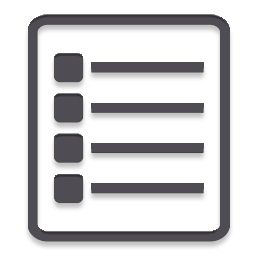
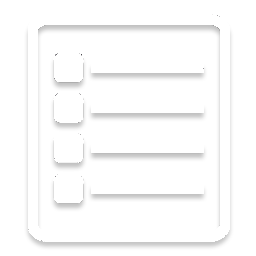
Perfil de usuario
se modifico el diseño de perfil de usuario, se agrego una copia de
respaldo de la base de datos al proyecto.

Changed region(s): [[0.1875, 0.1875, 0.8125, 0.8125], [0.0938, 0.0312, 0.9062, 0.9688]]

diff --git a/css/style_usuario.css b/css/style_usuario.css
@@ -9,7 +9,7 @@
 	height: auto;
 	min-height: 100%;
 	position: absolute;
-	background-color: #fff;
+	background-color: #F7763E;
 	float: left;
 	z-index: 1;
 }
@@ -33,7 +33,7 @@
 	padding: 3px;
 	position: fixed;
 	overflow: hidden;
-	background-color: #187BC6;
+	background-color: rgba(0,0,0,0.21);/*#187BC6*/
 	box-shadow: 0px 1px 3px 0px rgba(0,0,0,0.21);
 	float: left;
 	z-index: 3;
@@ -93,7 +93,7 @@
 	position: relative;
 	float: left;
 	background-color: transparent;
-	border-bottom:  1px solid rgba(0,0,0,0.21);
+	border-bottom:  1px solid rgba(255,255,255,0.81);
 }
 
 .nombre-opc{
@@ -205,7 +205,7 @@
 
 #_perfil{
 
-	background-color: #FF6600;
+	background-color: #F7763E;
 }
 
 #bg_home{
@@ -223,10 +223,98 @@
     background-image: url(../img/p.png);
     background-repeat: no-repeat;
     background-color: transparent;
-    left: 30px;
+    left: 150px;
+    top: 50px;
     width: 410px;
     height: 400px;
     position: relative;
     float: left;
     z-index: 1000!important;
+}
+
+#bg_cursos{
+
+    background-image: url(../img/bg_cursos.png);
+    width: 570px;
+    height: 492px;
+    background-repeat: no-repeat;
+    top: 80px;
+    position: relative;
+    float: left;
+    z-index: 1000!important;
+}
+
+#mis_grupos{
+
+  width: 40%;
+  height: 250px;
+  top: 80px;
+  position: relative;
+  float: left;
+  background-color: transparent;
+
+}
+
+#mis_grupos li{
+
+	list-style: none;
+	width: 80%;
+	left: 10%;
+	margin: 10px;
+	padding: 10px;
+	text-align: center;
+	position: relative;
+	background-color: #fff;
+	border-radius: 3px;
+	box-shadow: 0px 1px 3px 0px rgba(0,0,0,0.31);
+}
+
+.group-section{
+
+	width: 38%;
+	height: auto;
+	left: 10%;
+	top: 30px;
+	background-color: transparent;
+	position: relative;
+	padding: 20px;
+	float: left;
+}
+
+.group-section legend{
+
+	color: #fff;
+}
+
+.tbx{
+
+	width: 100%;
+	height: 25px;
+	padding: 5px;
+	border: 0px;
+	border-bottom: 1px solid rgba(0,0,0,0.21);
+	color: #8f8f8f;
+	float: left;
+}
+
+.cbx{
+
+	width: 102.3%;
+	height: 35px;
+	padding: 10px;
+	border: 0px;
+	border-bottom: 1px solid rgba(0,0,0,0.21);
+	color: #8f8f8f;
+	float: left;
+	position: relative;
+}
+
+.btn{
+
+	width: 102.3%;
+	height: 45px;
+	padding: 5px;
+	border: 0px;
+	border-bottom: 1px solid rgba(0,0,0,0.21);
+	color: #8f8f8f;
 }

diff --git a/js/scroll-usuario.js b/js/scroll-usuario.js
@@ -16,7 +16,7 @@ $(document).on('ready',function(){
     $('#perfil').on('click',function(){
         
        $('html, body').animate({
-           scrollTop: tam1
+           scrollTop: tam1+15
        },1500);
 
     });
@@ -24,7 +24,7 @@ $(document).on('ready',function(){
     $('#grupos').on('click',function(){
         
        $('html, body').animate({
-           scrollTop: tam1+tam2
+           scrollTop: tam1+tam2+30
        },1500);
 
     });
@@ -32,7 +32,7 @@ $(document).on('ready',function(){
     $('#configuracion').on('click',function(){
         
        $('html, body').animate({
-           scrollTop: tam1+tam2+tam3
+           scrollTop: tam1+tam2+tam3+45
        },1500);
 
     });

diff --git a/usuario.php b/usuario.php
@@ -61,6 +61,7 @@
                         <div class="info-perfil"><?php echo ''.$_SESSION['nombreUsuario'].''.$_SESSION['apellidosUsuario']; ?></div>
                         <div class="info-perfil"><?php echo ''.$_SESSION['sesionUsuario'].''; ?></div>
                         <div class="info-perfil"><?php echo ''.$_SESSION['correoUsuario'].''; ?></div>
+                        <div class="info-perfil">Cursos Actuales : [#]</div>
                         <div class="info-perfil">
                             <?php 
                                if($_SESSION['tipoUsuario']==1)
@@ -74,9 +75,56 @@
                 <div id="bg_perfil"></div>
             </section>
 
-            <section id="_grupos" class="section-usuario"></section>
+            <section id="_grupos" class="section-usuario">
+                 
+                 <div id="bg_cursos"></div>
+                 <div id="mis_grupos">
+                     <ul>
+                         <li>Mis Cursos</li>
+                         <li>Curso 1</li>
+                         <li>Curso 2</li>
+                     </ul>
+                 </div>
 
-            <section id="_configuracion" class="section-usuario"></section>
+            </section>
+
+            <section id="_configuracion" class="section-usuario">
+                
+
+                <fieldset class="group-section">
+                    <legend>Modificar Informaci&oacute;n Personal</legend>
+
+                    <form action="#" method="POST">
+                        <input type="text"     name="nombre"    placeHolder="Nombre"    class="tbx">
+                        <input type="text"     name="apellidos" placeHolder="Apellidos" class="tbx">
+                        <input type="text"     name="email"     placeHolder="Email"     class="tbx">
+                        <input type="password" name="password"  placeHolder="Password"  class="tbx">
+                        <input type="text"     name="matricula" placeHolder="Matricula" class="tbx">
+                        <select name="tipo-usuario" class="cbx">
+                            <option value="0">Cambiar tipo de usuario...</option>
+                            <option value="2">Alumno</option>
+                            <option value="1">Tutor</option>
+                        </select>
+
+                        <input type="submit" value="Guardar Cambios" class="btn">
+                    </form>
+                </fieldset>
+
+                <fieldset class="group-section">
+                    <legend>Dar de baja curso</legend>
+
+                    <form action="#" method="POST">
+                        <select name="mis-grupos" class="cbx">
+                            <option value="0">Seleccionar Grupo...</option>
+                            <option value="2">Grupo 1</option>
+                            <option value="1">Grupo 2</option>
+                        </select>
+
+                        <input type="submit" value="Eliminar Grupo" class="btn">
+                    </form>
+                </fieldset>
+
+            </section>
 
         </div>
 
